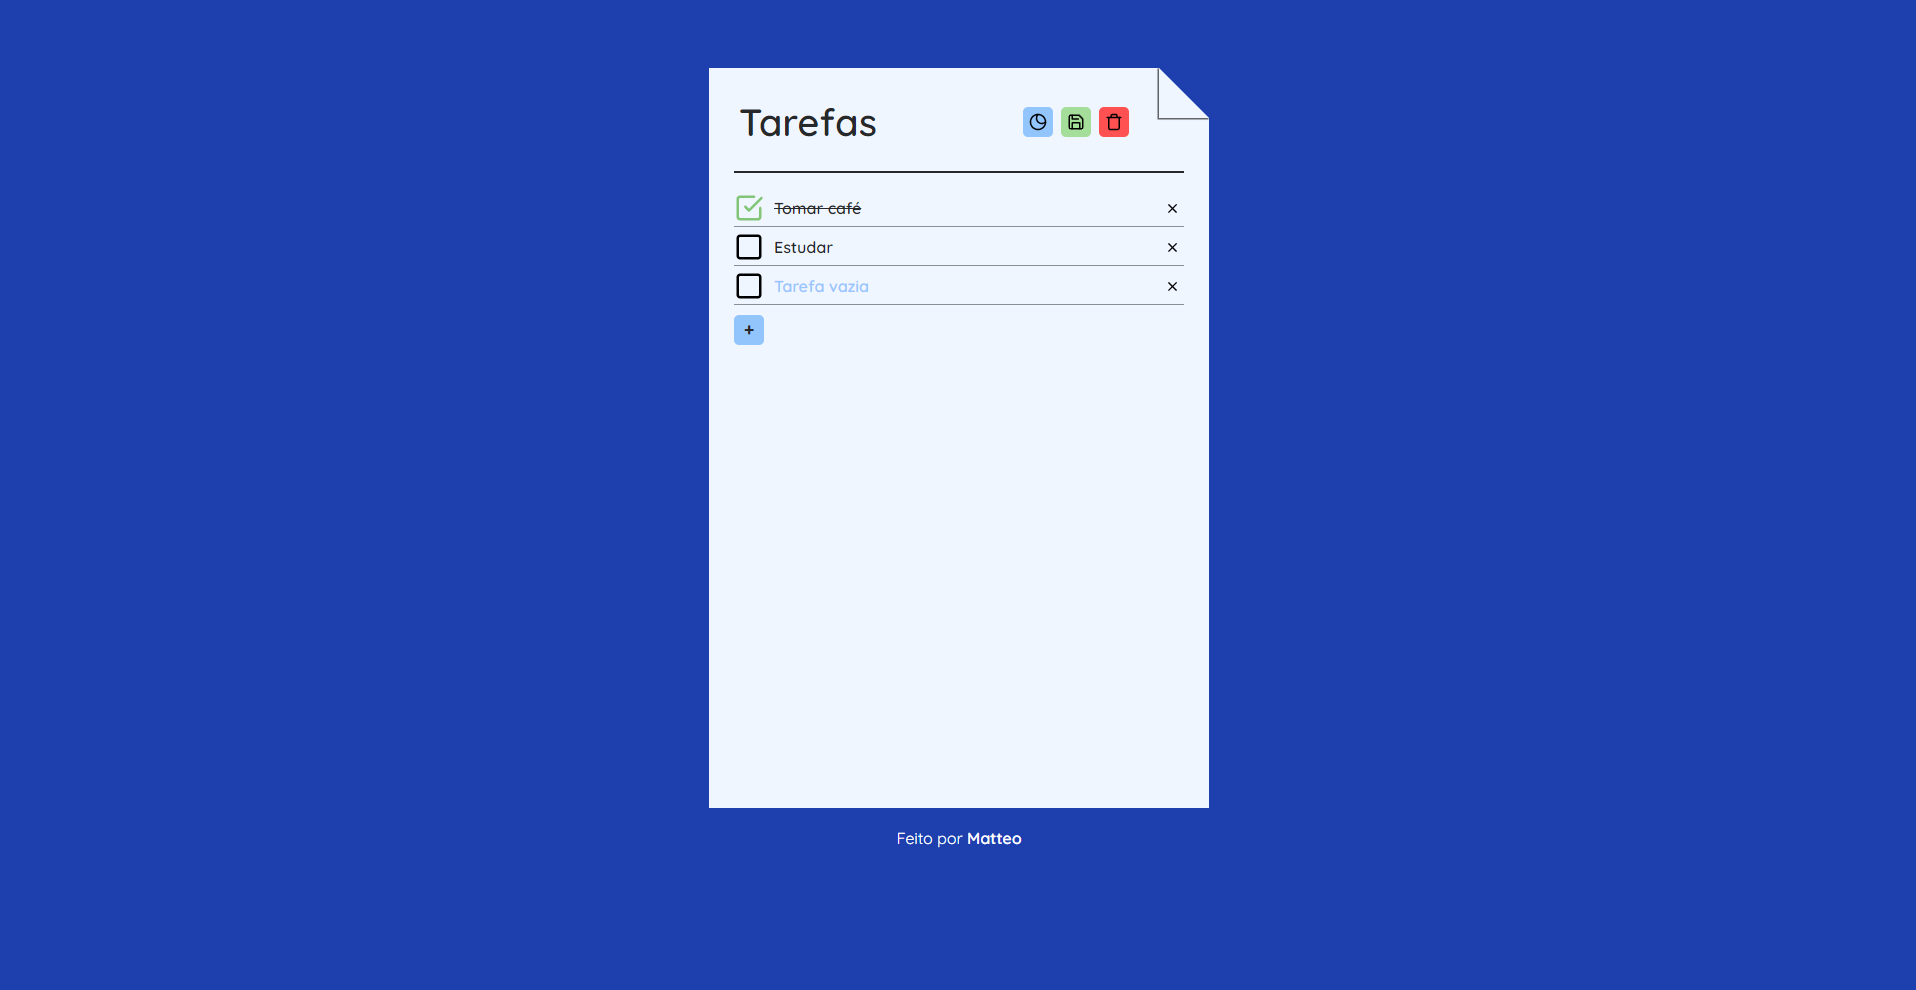
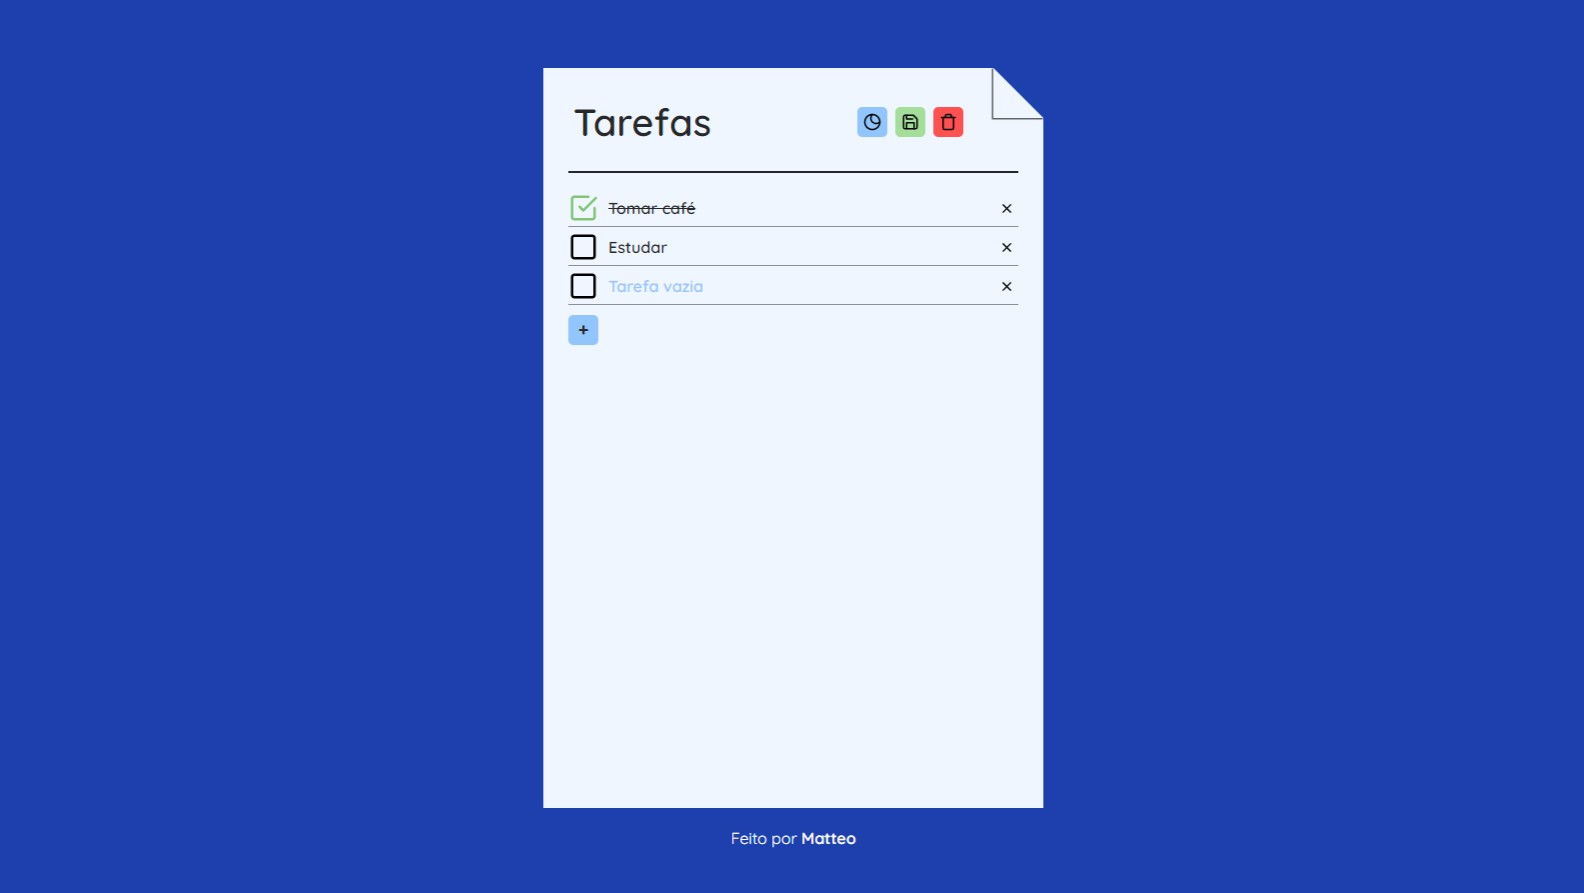
responsive edits

Changed region(s): [[0.3403, 0.0605, 0.6806, 0.9071], [0.464, 0.9373, 0.5568, 0.9675]]

diff --git a/css/style.css b/css/style.css
@@ -510,7 +510,7 @@ footer .name-link a:hover:after {
     display: flex;
     flex-direction: column;
     align-items: center;
-    padding-bottom: 110px;
+    padding-bottom: 10%;
   }
 
   .project-box.right {
